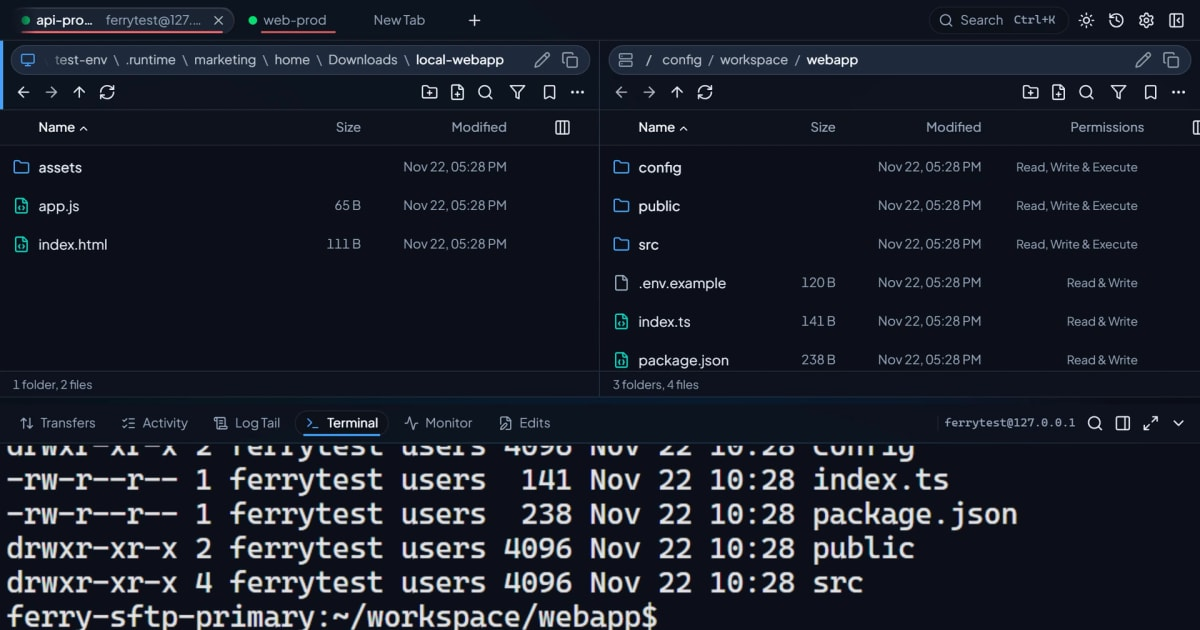
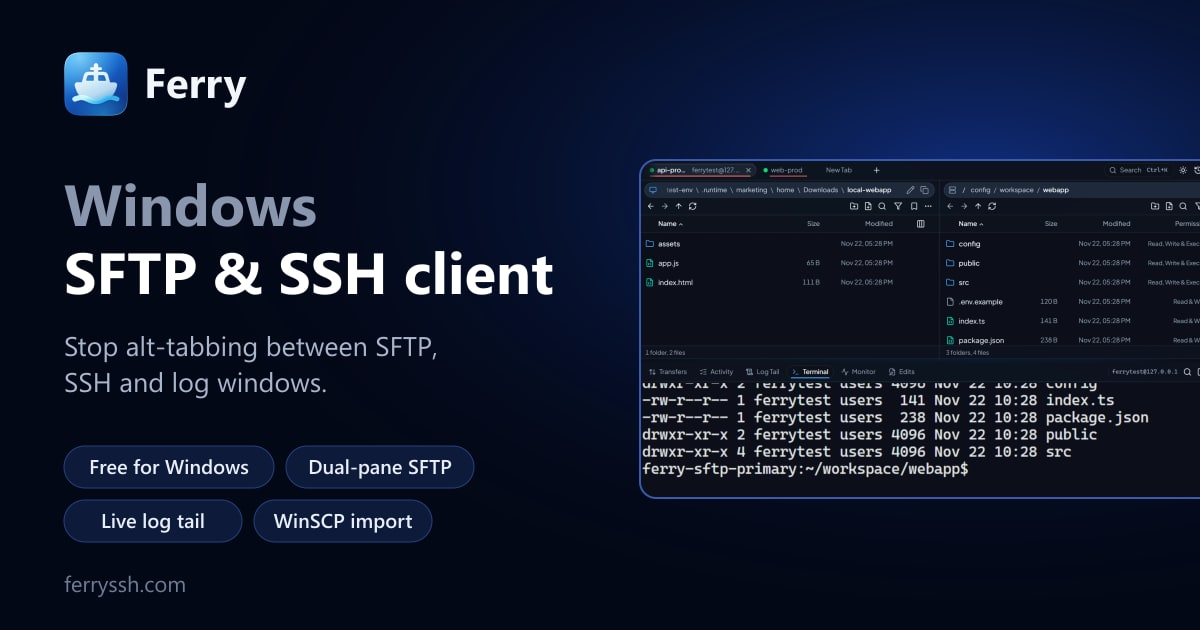
feat(seo): replace social preview with branded OG card
New 1200x630 card with headline, keyword badges and app screenshot, plus og:image:type.

diff --git a/nuxt.config.ts b/nuxt.config.ts
@@ -77,6 +77,7 @@ export default defineNuxtConfig({
         { property: 'og:locale', content: 'en_US' },
         { property: 'og:type', content: 'website' },
         { property: 'og:image', content: 'https://www.ferryssh.com/og.jpg' },
+        { property: 'og:image:type', content: 'image/jpeg' },
         { property: 'og:image:width', content: '1200' },
         { property: 'og:image:height', content: '630' },
         { property: 'og:image:alt', content: 'Ferry for Windows: dual-pane SFTP, SSH terminal, live logs and server monitor in one window' },

diff --git a/CHANGELOG.md b/CHANGELOG.md
@@ -14,7 +14,7 @@ All notable changes to this project are documented here. The format follows [Kee
 
 ### Changed
 
-- Rewrote the home, `/vs/*` and `/tour` copy and meta descriptions in plain developer language, shortened the `/vs/*` descriptions to fit search results, and added "Free" and "live log tail" to the home title.
+- Rewrote the home, `/vs/*` and `/tour` copy and meta descriptions in plain developer language, shortened the `/vs/*` descriptions to fit search results, and added "Free" and "live log tail" to the home title. Replaced the social preview image with a branded card (headline, keyword badges, app screenshot).
 
 ### Removed
 
